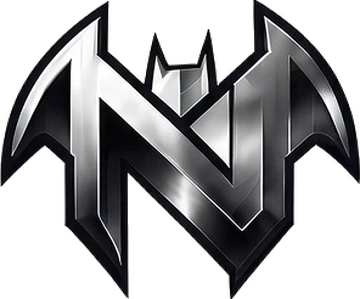
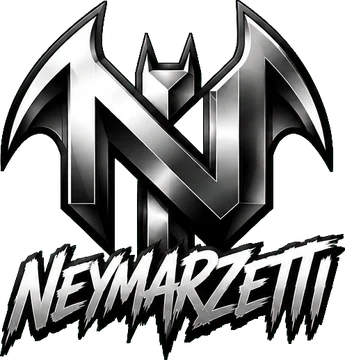
Neymarzetti de cara nova: escudo, mascote e manto novos (escolha B do Diego)
Ele mandou a prancha nova do proprio clube e escolheu o escudo B -- o morcego-N
cromado COM o letreiro NEYMARZETTI. Eu tinha recomendado o A (so o morcego,
porque a 78px o letreiro vira borrao e o jogo ja escreve o nome do clube do lado),
ele olhou os dois no tamanho real e ficou com o B. Decisao dele, do clube dele.

- escudo 345x360 29,4 KB (era 360x299) + mascote 346x440 42,7 KB (era 193x440).
  Largura pela proporcao real nos dois -- as duas mudaram, entao as duas linhas de
  width foram corrigidas junto.
- manto ['#080908','#F0EFEF'] (preto e branco), MEDIDOS na camisa nova: branco
  83,6%, preto 10,3%. Era preto+prata das listras de 24/08. O preto vem primeiro
  porque listra clara sobre a tela creme some (ordem do Arruda/Briga de Galo).
  Atualizado no codigo E na esc_socios do banco.
- ⚠ A CAMISA NOVA E SO CAMISA. A velha era o uniforme inteiro (343x620, com
  calcao) e por isso estava em RECORTE_CAMISA com uma janela. Com a janela ligada
  a camisa nova sairia CORTADA NO MEIO -- entao o Neymarzetti saiu dessa lista.
  Confirmado com ele: "sim so camisa e a nova msm".
- ⚠ A CHAVE DO MASCOTE continua `neymarzetti_mascarado` de proposito: ela esta
  gravada na esc_socios.mascote_key e em save de gente. Trocar por causa do
  desenho quebraria os dois. O nome de tela ("O Mascarado") ficou como estava --
  ele nao usa mais mascara na arte nova, entao vale perguntar se quer renomear.
- linha de novidade na home (cara nova, nao batismo novo), PT e EN.
[…]

diff --git a/src/escalacao/novidades.ts b/src/escalacao/novidades.ts
@@ -34,6 +34,7 @@ import { getLang } from './lang'
 
 // ⚠ SEMPRE em ordem: a mais NOVA em cima.
 export const NOVIDADES: Novidade[] = [
+  { data: '2026-09-16', emoji: '🦇', titulo: 'Cara nova pro Neymarzetti', texto: 'O Neymarzetti está de cara nova: escudo novo com o morcego-N cromado, manto branco com detalhe preto no lugar do preto e prata, e mascote redesenhada — o camisa 10 de óculos escuros, de joelhos comemorando, que carimba a tela quando o time faz gol. O clube é o mesmo, na mesma divisão; só a arte mudou. (Carreira e Rápido)', en: { titulo: 'A new look for Neymarzetti', texto: 'Neymarzetti has a new look: a new crest with the chrome bat-N, a white kit with black trim in place of the black and silver, and a redesigned mascot — the number 10 in sunglasses, on his knees celebrating, stamping the screen when the team scores. Same club, same division; only the artwork changed. (Career and Quick match)' } },
   { data: '2026-09-16', emoji: '🥊', titulo: 'Nasceu o Raiva Cajuri FC', texto: 'Mais um clube batizado por apoiador: o Raiva Cajuri FC chega na Série C, com o lutador mascarado no escudo, manto preto e vermelho de raios e mascote própria — o Raiva, que se joga da quina do ringue e carimba a tela quando o time faz gol. (Carreira e Rápido)', en: { titulo: 'Raiva Cajuri FC is born', texto: 'One more club named by a supporter: Raiva Cajuri FC arrives in Série C, with the masked wrestler on the crest, a black and red lightning kit and its own mascot — the Raiva, who dives off the ring corner and stamps the screen when the team scores. (Career and Quick match)' } },
   { data: '2026-09-16', emoji: '👑', titulo: 'Nasceu o Rei da Bola FC', texto: 'Mais um clube batizado por apoiador: o Rei da Bola FC chega na Série A, com o leão branco coroado no escudo, manto branco com faixa vermelha e preta e mascote própria — o Rei, o leão de coroa e manto que carimba a tela quando o time faz gol. O Sapekeiros FC segue no jogo, agora na Série B. (Carreira e Rápido)', en: { titulo: 'Rei da Bola FC is born', texto: 'One more club named by a supporter: Rei da Bola FC arrives in Série A, with the crowned white lion on the crest, a white kit with red and black bands and its own mascot — the King, the crowned lion in a cape that stamps the screen when the team scores. Sapekeiros FC stays in the game, now in Série B. (Career and Quick match)' } },
   { data: '2026-09-16', emoji: '🥇', titulo: 'A agência só comissiona artilheiro', texto: 'Na agência, a comissão por acontecimento passa a ser só do artilheiro: quem é artilheiro de qualquer série ou da Copa rende moeda pra você, e quem é negociado no leilão também, como sempre foi. Ser campeão não paga mais comissão — um time campeão tem onze titulares, então bastava um agenciado numa boa equipe pra render mais que uma carreira inteira de gols, sem mérito nenhum do jogador. As mensalidades dos seus agenciados continuam exatamente iguais. (Carreira)', en: { titulo: 'The agency only pays for top scorers', texto: 'At the agency, the per-event commission is now only for top scorers: a client who finishes top scorer of any division or of the Cup earns you coins, and so does one who gets traded at the auction, as always. Winning a title no longer pays a commission — a champion side has eleven starters, so a single client at a good team paid more than a whole career of goals, with no credit to the player at all. Your clients\' monthly fees are exactly the same. (Career)' } },

diff --git a/src/escalacao/mascotes.tsx b/src/escalacao/mascotes.tsx
@@ -43,7 +43,7 @@ import vidraceiroMascoteImg from './img/vidraceiro-mascote.webp' // 🪟 Vidrace
 import bagresMascoteImg from './img/bagres-mascote.webp' // 🐟 Bagres 1993 (caiohcris): arte própria do dono, 06/09
 import jurubebaMascoteImg from './img/jurubeba-mascote.webp' // 🧦 Jurubeba FC (luizguilhermeps): arte própria do dono, 02/09
 import skyyMascoteImg from './img/skyy-mascote.webp' // 🦅 Skyy FC (matheusncruz1): arte própria do dono
-import neymarzettiMascoteImg from './img/neymarzetti-mascote.webp' // 🦇 Neymarzetti (diego.c.fonseca): arte própria do dono, 24/08
+import neymarzettiMascoteImg from './img/neymarzetti-mascote.webp' // 🦇 Neymarzetti (diego.c.fonseca): arte própria do dono — RENOVADA em 16/09
 import milhacaMascoteImg from './img/milhaca-mascote.webp' // 🌽 Milhaça FC (igormarquesn99): arte própria do dono, 24/08
 import bigaoMascoteImg from './img/bigao-mascote.webp' // 🧢 Crias do Bigão (giovannecastro784): arte própria do dono
 import futpointMascoteImg from './img/futpoint-mascote.webp' // 📍 Futpoint FC (gfpicolo13): arte própria do dono
@@ -629,9 +629,13 @@ export const MASCOTES: Record<string, ReactNode> = {
   lluch_menino: (
     <img src={lluchMascoteImg} height={176} width={Math.round(176 * 252 / 440)} alt="O Esquecido — Esqueceram do Lluch FC" style={{ flex: 'none', display: 'block', objectFit: 'contain' }} />
   ),
-  // 🦇 Neymarzetti (Diego, dono do jogo) — o camisa 10 MASCARADO de manto preto
-  // e prata, com a bola no braço. arte própria do dono (webp, fora do bundle).
-  // mascote_key = "neymarzetti_mascarado". 193x440 no arquivo.
+  // 🦇 Neymarzetti (Diego, dono do jogo) — arte RENOVADA em 16/09: o camisa 10 de
+  // óculos escuros, de joelhos comemorando, de manto BRANCO com detalhe preto.
+  // 346x440 no arquivo (era 193x440, o mascarado de manto preto e prata).
+  // ⚠ A CHAVE continua `neymarzetti_mascarado` DE PROPÓSITO: ela está gravada na
+  // `esc_socios.mascote_key` do banco e em save de gente. Trocar a chave por causa
+  // do desenho quebraria os dois — o nome de tela (MASCOTE_NOME) é que pode mudar,
+  // e esse fica como está até o Diego escolher um novo (ele não usa mais máscara).
   // 24/08: aposenta o `moicano` (SVG à mão de 09/08), que fica no arquivo só pra
   // não quebrar save antigo que tenha a chave gravada.
   // 🌽 Milhaça FC (igormarquesn99, @igumarques) — o boleiro de boné e óculos
@@ -640,7 +644,7 @@ export const MASCOTES: Record<string, ReactNode> = {
     <img src={milhacaMascoteImg} height={176} width={Math.round(176 * 199 / 440)} alt="O Milhaça — Milhaça FC" style={{ flex: 'none', display: 'block', objectFit: 'contain' }} />
   ),
   neymarzetti_mascarado: (
-    <img src={neymarzettiMascoteImg} height={176} width={Math.round(176 * 193 / 440)} alt="O Mascarado — Neymarzetti" style={{ flex: 'none', display: 'block', objectFit: 'contain' }} />
+    <img src={neymarzettiMascoteImg} height={176} width={Math.round(176 * 346 / 440)} alt="O Mascarado — Neymarzetti" style={{ flex: 'none', display: 'block', objectFit: 'contain' }} />
   ),
   // 🦇 Theuzudo FC — o morcego de boné (coração Valência, laranja e preto).
   // arte própria do dono (webp, fora do bundle). mascote_key = "theuzudo_morcego".

diff --git a/src/escalacao/escudos.tsx b/src/escalacao/escudos.tsx
@@ -26,7 +26,7 @@ import theuzudoEscudoImg from './img/theuzudo-escudo.webp' // 🦇 Theuzudo FC (
 import saoluizEscudoImg from './img/saoluiz-escudo.webp' // 🐶 São Luiz FC (gabrielnegreirosamaral99): arte própria do dono
 import papaoEscudoImg from './img/papao-escudo.webp' // 🐺 Papão United Madrid (agrostinho88): arte própria do dono
 import lluchEscudoImg from './img/lluch-escudo.webp' // 🏠 Esqueceram do Lluch FC (lluchmarcel81): arte própria do dono
-import neymarzettiEscudoImg from './img/neymarzetti-escudo.webp' // 🦇 Neymarzetti (diego.c.fonseca): arte própria do dono, 24/08
+import neymarzettiEscudoImg from './img/neymarzetti-escudo.webp' // 🦇 Neymarzetti (diego.c.fonseca): arte própria do dono — RENOVADA em 16/09 (morcego-N cromado + letreiro; 345x360, antes 360x299)
 import milhacaEscudoImg from './img/milhaca-escudo.webp' // 🌽 Milhaça FC (igormarquesn99 / @igumarques): arte própria do dono, 24/08
 import takahdaoEscudoImg from './img/al-takahdao-escudo.webp' // 🦜🛒 Al Takahdao FC (fontourajoao04): arte própria do dono, 01/09
 import capsuleEscudoImg from './img/capsule-escudo.webp' // 🐉 Corporação Capsule FC (contatovegetta14): arte própria do dono, 03/09
@@ -726,7 +726,7 @@ const milhacaEscudoRender = (size: number) => (
   <img src={milhacaEscudoImg} height={size} width={Math.round(size * 308 / 360)} alt="Milhaça FC" style={{ flex: 'none', display: 'block', objectFit: 'contain' }} />
 )
 const neymarzettiEscudoRender = (size: number) => (
-  <img src={neymarzettiEscudoImg} height={size} width={Math.round(size * 360 / 299)} alt="Neymarzetti" style={{ flex: 'none', display: 'block', objectFit: 'contain' }} />
+  <img src={neymarzettiEscudoImg} height={size} width={Math.round(size * 345 / 360)} alt="Neymarzetti" style={{ flex: 'none', display: 'block', objectFit: 'contain' }} />
 )
 // 🦇 Theuzudo FC — morcego (coração Valência), laranja e preto. 293x360 no arquivo.
 const theuzudoEscudoRender = (size: number) => (

diff --git a/src/escalacao/manto.ts b/src/escalacao/manto.ts
@@ -12,10 +12,12 @@ import { getLang } from './lang' // 🌐 NOME_MSG sai no idioma do botão BR/EN
 
 // reserva no código (beta) — conta → [cor1, cor2]
 export const MANTO_CONTAS: Record<string, [string, string]> = {
-  // 🦇 Neymarzetti — PRETO e PRATA, MEDIDOS na arte que o dono mandou (24/08).
-  // Antes era vermelho e preto (❤🖤): a camisa nova é listrada preto/prata, e a
-  // regra é que o manto sai das 2 cores da arte, nunca chutado.
-  'diego.c.fonseca@gmail.com': ['#141416', '#B6B7B8'],
+  // 🦇 Neymarzetti — PRETO e BRANCO, MEDIDOS na arte NOVA que o dono mandou (16/09):
+  // branco 83,6% do manto, preto 10,3%. A camisa virou BRANCA com detalhe preto.
+  // O PRETO vem primeiro de propósito: listra clara em cima da tela creme do jogo
+  // some (mesma ordem do Tricolor do Arruda e do Briga de Galo).
+  // 🕰 histórico: era vermelho e preto até 24/08, depois preto e prata (listrada).
+  'diego.c.fonseca@gmail.com': ['#080908', '#F0EFEF'],
   'adriano.ferrari@quepazseguros.com.br': ['#C2452F', '#141414'], // 🏎 Ferrari SC — vermelho e preto
   'matheusfilipealves@hotmail.com': ['#F06000', '#0C0C0C'], // 🦇 Theuzudo FC — laranja e preto, MEDIDOS na arte que o dono mandou (21/08)
   'fontourajoao04@gmail.com': ['#00461C', '#EE5400'], // 🦜🛒 Al Takhadao FC — verde e laranja, MEDIDOS na camisa que o dono mandou (01/09)

diff --git a/src/escalacao/salao-camisas.ts b/src/escalacao/salao-camisas.ts
@@ -41,6 +41,8 @@ export const CAMISAS_SALAO: Record<string, string> = {
 export const RECORTE_CAMISA: Record<string, [number, number, number]> = {
   "Leão da Estradinha": [332, 620, 416],
   "Papão United Madrid": [175, 321, 219],
-  "Neymarzetti": [343, 620, 420],
+  // 🦇 Neymarzetti saiu daqui em 16/09: a arte NOVA é SÓ A CAMISA (547x700). A velha
+  // era o uniforme inteiro (343x620, com calção) e por isso precisava de janela — com
+  // a janela ligada, a camisa nova sairia cortada no meio.
   "Milhaça FC": [413, 620, 425],
 }
